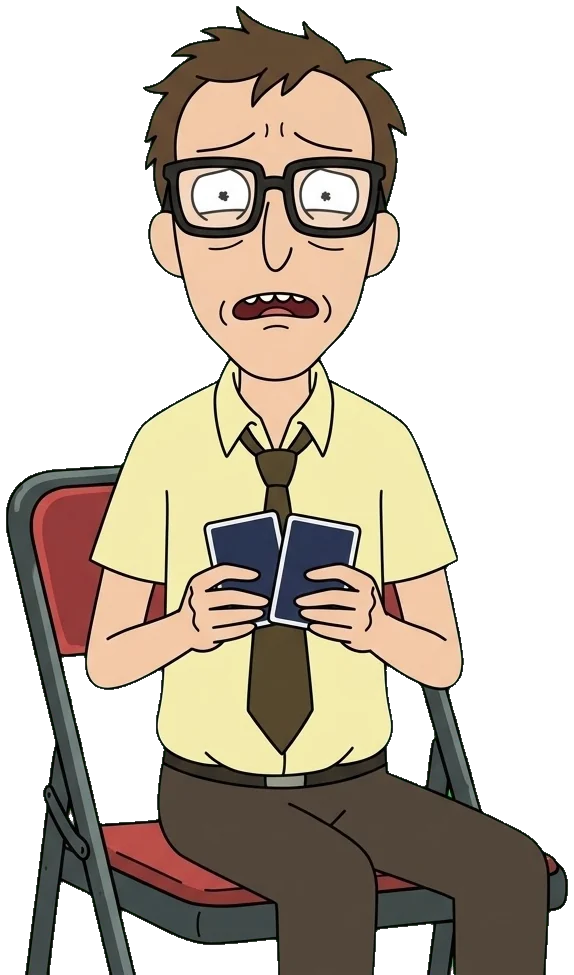
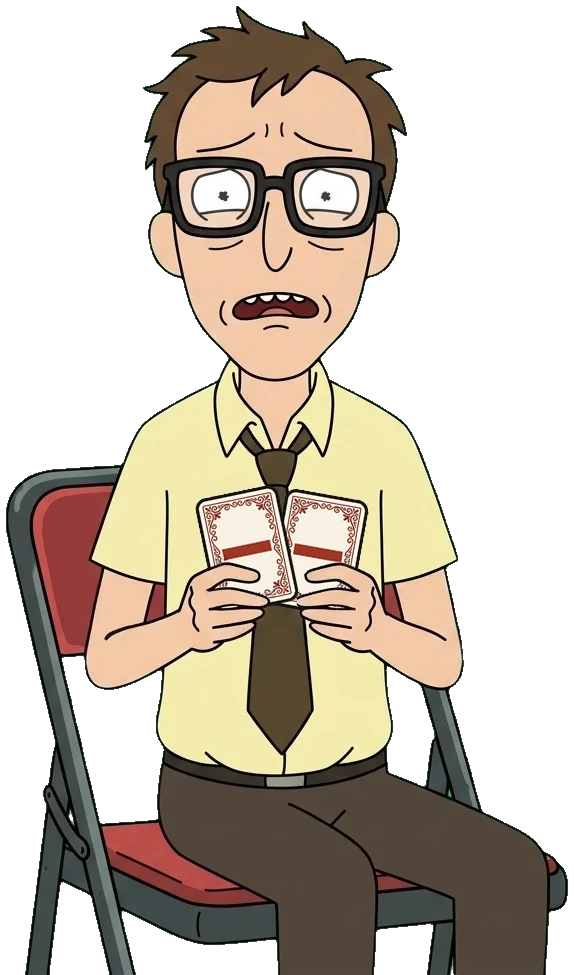
Cartas nuevas en la mano de cinco rivales; Tío Glub rehecho sin motitas
- Aprobados con el reverso de la baraja, del mismo tamaño en la mesa y con sus franjas en
  personajes.json: El Compadre Zorg (v2, llamada 2), El Profe (llamada 1), La Chispa
  (llamada 2) y Don Tentáculos (llamada 2: los tentáculos pasan por encima de la parte de
  abajo de las cartas, como en la base). WebP y registro con optimizar-arte.py; los
  tamaños, la cintura y la cara no cambian.
- Tío Glub, rehecho con la combinada nueva y la misma respuesta pagada (sin las motitas
  junto al pulgar): recomponer-cartas --respaldo parte de la base de antes de aprobar, y
  basta con que las cartas queden donde estaban en el dibujo que se mandó (la combinada ya
  no usa el relleno ni los dedos viejos del dibujo).
- La Güera: su dibujo rellena el hueco entre las manos con su piel (relleno = "piel" en su
  ficha) en vez del gris de la silla; cartas --llamadas 1 para su última llamada.
- Capturas del juego con los seis: la etiqueta sale en las franjas de los cinco, derecha en
  todos los asientos y apagada con el personaje (arte/revision/cartas/seis-*).

diff --git a/scripts/generar-personaje.py b/scripts/generar-personaje.py
@@ -1015,12 +1015,15 @@ def _orilla_suave(girada, tam, n):
     return Image.fromarray(np.dstack([rgb, np.clip(0.5 - adentro, 0, 1) * 255]).round().astype(np.uint8), "RGBA")
 
 
-def _rellenar(a, mascara, vueltas=12):
+def _rellenar(a, mascara, vueltas=12, piel=None):
     """Tapa la máscara con el color de alrededor: el del píxel más cercano del cuerpo (ni tinta ni sombra oscura, ni
-    restos de carta), suavizado por difusión. Es un borrador: Gemini redibuja esa parte."""
+    restos de carta), suavizado por difusión. Es un borrador: Gemini redibuja esa parte. Con `piel` (un color), solo
+    de lo que se parece a ella: así no entra lo de junto que no es cuerpo (el tubo gris de la silla de la turista)."""
     lum, sat = a @ LUMA, a.max(axis=2) - a.min(axis=2)
     cerca = ndi.binary_dilation(mascara, iterations=12) & ~ndi.binary_dilation(mascara, iterations=2)
     fuente = cerca & (lum > 110) & ~_azul(a) & ~((lum > 160) & (sat < 50) & ~(a[..., 2] > a[..., 0] + 40))
+    if piel is not None:
+        fuente &= np.linalg.norm(a - np.asarray(piel, np.float32), axis=2) < 60
     if not fuente.any():
         fuente = ~mascara & (lum > 90)
     _, (iy, ix) = ndi.distance_transform_edt(~fuente, return_indices=True)
@@ -1165,7 +1168,8 @@ def entrada_dibujada(base, ficha, info, ancla="arriba", mover=None):
         mover = min([0] + [s * k for k in range(1, 31) for s in (-1, 1)], key=calif)
     nuevas, franjas = geometria_nuevas(viejas, info["objetivo"], ancla, mover)
     a = np.asarray(base).astype(np.float32)
-    img = Image.fromarray(np.clip(_rellenar(a, relleno), 0, 255).astype(np.uint8)).convert("RGBA")
+    piel = np.median(a[dedos], axis=0) if ficha.get("relleno") == "piel" else None   # la de sus dedos
+    img = Image.fromarray(np.clip(_rellenar(a, relleno, piel=piel), 0, 255).astype(np.uint8)).convert("RGBA")
     capa = Image.new("RGBA", base.size, (0, 0, 0, 0))   # las cartas solas, con orillas suaves: las del resultado
     formas = []
     for n in reversed(nuevas):   # la de atrás primero, la de enfrente encima
@@ -1417,17 +1421,22 @@ def png64(img):
     return base64.b64encode(buf.getvalue()).decode("ascii")
 
 
-def preparar_cartas(pid, ficha):
+def preparar_cartas(pid, ficha, respaldo=None):
     """Lo que necesitan el plan y la generación de cartas de un personaje: su base, el color de su fondo, sus medidas
-    del juego, el plan (tamaño y zona) y su parpadeo aprobado (o None)."""
-    base_path = aprobado(pid, "frente", "espera")
+    del juego, el plan (tamaño y zona) y su parpadeo aprobado (o None). Con `respaldo` (la fecha y hora de
+    arte/respaldos/), la base y el parpadeo de antes de aprobar: para rehacer uno que ya tiene las cartas nuevas."""
+    base_path, parp_path = (aprobado(pid, "frente", c) for c in ("espera", "parpadeo"))
+    if respaldo:
+        base_path, parp_path = (os.path.join(ARTE, "respaldos", f"{pid}-frente-{c}-{respaldo}.png")
+                                for c in ("espera", "parpadeo"))
+        if not os.path.exists(base_path):
+            sys.exit(f"No existe {rel(base_path)}.")
     base = Image.open(base_path).convert("RGB")
     K, tipo, _ = OPT.fondo_de(np.asarray(base).astype(np.float32), os.path.basename(base_path))
     if tipo != ficha["fondo"]:
         sys.exit(f"La ficha de {pid} dice fondo {ficha['fondo']}, pero su base tiene fondo {tipo}.")
     med = medidas(pid, "frente", base)
     info = plan_cartas(pid, base, ficha, med)
-    parp_path = aprobado(pid, "frente", "parpadeo")
     parpadeo = Image.open(parp_path).convert("RGB") if os.path.exists(parp_path) else None
     revisar_ojos(pid, base, parpadeo, info["zona"])
     return base, K, med, info, parpadeo
@@ -1498,7 +1507,10 @@ def cmd_cartas(args):
               + ("bien" if not f_dib else "NO: " + "; ".join(f_dib.values()))
               + f"  (franjas visibles {v_dib['franjas']}, dedos {v_dib['dedos']:.0%}, ancho {v_dib['ancho']})")
     total = sum(f[-1] for f in filas)
-    print(f"Costo estimado: ~${total:.2f} USD (hasta ${total * MAX_LLAMADAS:.2f} si todo se reintenta), "
+    maximo = args.llamadas or MAX_LLAMADAS
+    if not 1 <= maximo <= MAX_LLAMADAS:
+        sys.exit(f"--llamadas va de 1 a {MAX_LLAMADAS}.")
+    print(f"Costo estimado: ~${total:.2f} USD (hasta ${total * maximo:.2f} si todo se reintenta), "
           f"con {cfg['modelo']} a {cfg['image_size']}")
     if args.simular or not filas:
         return
@@ -1510,14 +1522,14 @@ def cmd_cartas(args):
     if not args.si and input("¿Generar? [s/N] ").strip().lower() not in ("s", "si", "sí"):
         print("Cancelado.")
         return
-    generar_cartas(cliente(), cfg, P, ficha, pid, base, K, med, info, parpadeo, entrada, datos)
+    generar_cartas(cliente(), cfg, P, ficha, pid, base, K, med, info, parpadeo, entrada, datos, maximo)
     print(f"Gastado en total según los registros de arte/generadas/: ${gastado_en_total():.4f} USD")
 
 
-def generar_cartas(client, cfg, P, ficha, pid, base, K, med, info, parpadeo, entrada, datos):
-    """La espera con las cartas nuevas: Gemini recibe el dibujo y redibuja las manos (como mucho MAX_LLAMADAS
-    peticiones). De su respuesta solo se toma la zona y, dentro de ella, solo lo que cambió contra el dibujo: donde no
-    tocó las cartas, siguen siendo las de código. Luego el parpadeo, con los ojos cerrados de antes, sin gastar."""
+def generar_cartas(client, cfg, P, ficha, pid, base, K, med, info, parpadeo, entrada, datos, maximo=MAX_LLAMADAS):
+    """La espera con las cartas nuevas: Gemini recibe el dibujo y redibuja las manos (como mucho `maximo`
+    peticiones). De su respuesta solo se toma la zona y, dentro de ella, lo que cambió; encima, las cartas de código
+    salvo donde Gemini puso un dedo (componer_cartas). Luego el parpadeo, con los ojos cerrados de antes, sin gastar."""
     nombre = f"{pid}-frente-espera-cartas"
     os.makedirs(carpeta(pid), exist_ok=True)   # antes de pagar: lo crudo se guarda en cuanto llega
     n = siguiente_version(pid, nombre)
@@ -1531,9 +1543,9 @@ def generar_cartas(client, cfg, P, ficha, pid, base, K, med, info, parpadeo, ent
     entrada64 = png64(lienzo)
     zona, crudos, gastado, correcciones, cand, cache = info["zona"], [("dibujo enviado", entrada)], 0, [], None, {}
     print(f"{os.path.basename(prefijo)}: zona {zona}, cartas de {info['objetivo']:.0f} px dibujadas por código", flush=True)
-    for intento in range(1, MAX_LLAMADAS + 1):
+    for intento in range(1, maximo + 1):
         prompt = prompt_cartas(P, ficha, correcciones)
-        print(f"  llamada {intento} de {MAX_LLAMADAS}...", flush=True)
+        print(f"  llamada {intento} de {maximo}...", flush=True)
         t0, r, error, gen, crudo = time.time(), None, None, None, None
         try:
             r = pedir(client, cfg, prompt, entrada64)
@@ -1581,7 +1593,7 @@ def generar_cartas(client, cfg, P, ficha, pid, base, K, med, info, parpadeo, ent
     if fallas:   # se acabaron las llamadas
         if cand is not None:
             guardar_cartas(pid, prefijo, n, base, crudos, cand, info, med, parpadeo, falla=True)
-        print(f"  {os.path.basename(prefijo)}: no pasó las revisiones en {MAX_LLAMADAS} llamadas. "
+        print(f"  {os.path.basename(prefijo)}: no pasó las revisiones en {maximo} llamada(s). "
               + (f"Lo último quedó en {rel(prefijo)}-FALLA.png (y su -comparacion, -detalle y GIF). " if cand is not None else "")
               + f"Costo: ${gastado:.4f} USD.")
         return
@@ -1612,17 +1624,28 @@ def guardar_cartas(pid, prefijo, n, base, crudos, cand, info, med, parpadeo, fal
 def cmd_recomponer_cartas(args):
     """Vuelve a armar el cuadro de una versión con las respuestas de Gemini ya pagadas (sus -crudoN.png), sin llamar a
     la API: la combinada y las revisiones de hoy. Si una pasa, deja esa versión como si hubiera salido así (para
-    aprobar-cartas); si no, rehace sus -FALLA."""
+    aprobar-cartas); si no, rehace sus -FALLA. Con --respaldo, parte de la base de antes de aprobar."""
     pid = args.personaje
     ficha = cargar_ficha(pid)
-    base, K, med, info, parpadeo = preparar_cartas(pid, ficha)
+    base, K, med, info, parpadeo = preparar_cartas(pid, ficha, args.respaldo)
     entrada, datos = entrada_dibujada(base, ficha, info)
     info["zona"], info["zona_medida"] = datos["zona"], datos["zona_medida"]
     prefijo = os.path.join(carpeta(pid), con_version(f"{pid}-frente-espera-cartas", args.version))
     if not os.path.exists(f"{prefijo}-entrada.png"):
         sys.exit(f"No encuentro {rel(prefijo)}-entrada.png: esa versión no es del método de cartas dibujadas.")
-    if (np.asarray(Image.open(f"{prefijo}-entrada.png").convert("RGB")) != np.asarray(entrada)).any():
-        sys.exit("El dibujo de hoy no es el que se mandó en esa versión: no se puede recomponer con él.")
+    enviado = np.asarray(Image.open(f"{prefijo}-entrada.png").convert("RGB"))
+    distintos = int((enviado != np.asarray(entrada)).any(axis=2).sum())
+    if distintos:
+        # la combinada no usa el dibujo (solo la base, la respuesta y las cartas solas): basta con que las cartas
+        # queden donde estaban en el que se mandó
+        antes = json.load(open(f"{prefijo}-franjas.json"))
+        iguales = antes["mover"] == datos["mover"] and len(antes["franjas_px"]) == len(datos["franjas"]) and all(
+            np.hypot(*np.subtract(a["c"], b["c"])) <= 0.5 and abs(a["angulo"] - b["angulo"]) <= 0.5
+            for a, b in zip(antes["franjas_px"], datos["franjas"]))
+        if not iguales:
+            sys.exit("Las cartas del dibujo de hoy no quedan donde estaban en el que se mandó: no se puede recomponer.")
+        print(f"  (el dibujo de hoy difiere del que se mandó en {distintos} px del relleno y los dedos viejos, que la "
+              f"combinada no usa; las cartas quedan en el mismo lugar)")
     lienzo, dentro = a_cuadrado(entrada, K)
     crudos, pasa, ultima = [("dibujo enviado", entrada)], None, None
     patron = re.compile(re.escape(os.path.basename(prefijo)) + r"-crudo(\d+)\.png")
@@ -1721,10 +1744,14 @@ def main():
     c.add_argument("--si", action="store_true", help="no pedir confirmación")
     c.add_argument("--modelo", help="otro modelo en vez del de prompts-personaje.toml")
     c.add_argument("--tamano", choices=["1K", "2K", "4K"], help="otro tamaño en vez del de prompts-personaje.toml")
+    c.add_argument("--llamadas", type=int,
+                   help=f"tope de llamadas de esta vez (de 1 a {MAX_LLAMADAS}; sin esto, {MAX_LLAMADAS})")
     rc = sub.add_parser("recomponer-cartas", help="rearma una versión con sus respuestas ya pagadas, sin llamar a la API")
     rc.add_argument("personaje")
     rc.add_argument("--version", type=int, required=True, help="la versión de <id>-frente-espera-cartas, por ejemplo 2")
     rc.add_argument("--llamada", type=int, help="usar la respuesta de esta llamada (sin esto, la primera que pase)")
+    rc.add_argument("--respaldo", help="fecha-hora de arte/respaldos/ (por ejemplo 20261019-182031): partir de la base "
+                    "de antes de aprobar")
     ac = sub.add_parser("aprobar-cartas", help="pasa la espera con el reverso nuevo y su parpadeo a arte/personajes/")
     ac.add_argument("personaje")
     ac.add_argument("--version", type=int, help="otra versión en vez de la más reciente, por ejemplo 2")

diff --git a/CLAUDE.md b/CLAUDE.md
@@ -270,7 +270,7 @@ Los de los lados pueden tapar un poco los hombros de los del fondo, nunca la car
   - **Figuras** (rey, reina y jota): personajes originales en caricatura para adultos, al estilo de las figuras de las barajas clásicas: pose rígida de frente, un objeto en diagonal y la otra mano al pecho, ropa cubierta de patrones, párpados pesados y cara de "ya me quiero ir". Gemini dibujó la mitad de arriba (`scripts/generar-baraja.py`); el código pone la de abajo (la misma girada 180°), el marco de doble línea con las volutas del reverso, la franja del centro, el palo junto a la cabeza y los índices. La túnica va del color de su palo: corazones rojo ladrillo, diamantes marino, tréboles oliva y picas gris pizarra.
   - **Reverso**: el marco de volutas rojo ladrillo sobre blanco (de Gemini, con el centro limpiado por código) y, al centro, la etiqueta del logo: un rectángulo rojo con "Poker for the Players" en letras blancas, sin contorno, dibujada por código. La misma función la pone en los ases: el texto, los colores y el tamaño están en `ETIQUETA` de `cards.js`, para cambiar los dos a la vez cuando se rediseñe el logo.
   - El arte se precarga con el resto; si alguna imagen no carga, esa carta se dibuja solo con código (el reverso con un marco rojo sencillo, las figuras con su marco, su letra y su palo) y el juego sigue. En la vista 2D las cartas son HTML con los mismos palos, y boca abajo llevan un reverso en CSS (papel, marco rojo y la franja de la etiqueta).
-  - Las cartas que tienen los rivales en la mano llevan el mismo reverso y miden lo mismo en la mesa para todos (0.07 de ancho; las de los asientos del fondo se ven más chicas por la distancia). `scripts/generar-personaje.py cartas` las dibuja por código sobre la espera (el reverso aprobado y la franja de la etiqueta vacía, al ancho que les toca con su escala) y Gemini solo redibuja las manos alrededor, con los dedos encima de las cartas; las letras de la franja las pone el juego con la misma `etiqueta()` (`rivals.js`, con las `franjas` que `aprobar-cartas` anota en `personajes.json`), derechas aunque el personaje vaya en espejo. Así un logo nuevo se ve en todas partes sin rehacer imágenes. Por ahora solo Tío Glub; los demás siguen con el reverso azul: ver "Pendientes".
+  - Las cartas que tienen los rivales en la mano llevan el mismo reverso y miden lo mismo en la mesa para todos (0.07 de ancho; las de los asientos del fondo se ven más chicas por la distancia). `scripts/generar-personaje.py cartas` las dibuja por código sobre la espera (el reverso aprobado y la franja de la etiqueta vacía, al ancho que les toca con su escala) y Gemini solo redibuja las manos alrededor, con los dedos encima de las cartas; las letras de la franja las pone el juego con la misma `etiqueta()` (`rivals.js`, con las `franjas` que `aprobar-cartas` anota en `personajes.json`), derechas aunque el personaje vaya en espejo. Así un logo nuevo se ve en todas partes sin rehacer imágenes. Ya las tienen todos menos La Güera (la turista), que sigue con el reverso azul: ver "Pendientes".
 - **Rivales**: ilustraciones recortadas de cuerpo completo, sentados en su propia silla y con las cartas al pecho (ver "Archivos de arte" y `docs/ESPEC-PERSONAJES.md`); la mesa los recorta en la cintura, así que las manos y las cartas se siguen viendo. Mismo estilo para todos: formas simples, ojos grandes con párpados caídos, expresiones secas, aburridas o sospechosas, mezcla de criaturas alienígenas y equipo improvisado. Cada uno con una silueta distinta y reconocible. Los humanos en la mesa usan uno de estos personajes como avatar, con su apodo encima.
 - **Animación de los rivales** (cambio de pose, como en una serie animada):
   - **espera** por omisión, con **parpadeo** cada 3 a 6 s al azar (150 ms; solo en espera);
@@ -402,7 +402,7 @@ npm start       # producción: sirve dist/ (corre antes npm run build)
 
 ## Pendientes
 
-- **Cartas en la mano de los rivales**: Tío Glub ya tiene las nuevas; faltan los otros cinco con el mismo método (`generar-personaje.py cartas <id>`, que no gasta si el dibujo no pasa sus propias revisiones). Antes hay que ajustar su dibujo: en el alien y el nerd los dedos caen sobre las franjas, en el pulpo la franja de atrás queda tapada en parte, en la robot y la turista los dedos apenas tocan la carta, y el medidor no encuentra las cartas chicas de la turista. Al terminar, cambiar en `prompts-personaje.toml` el "navy blue" de apuesta, retirarse y gana.
+- **Cartas en la mano de La Güera (la turista)**: los otros cinco ya tienen las nuevas. Su primera respuesta dejó una mancha gris entre las manos (el relleno tomaba el gris de la silla); su dibujo ya se rellena con su piel (`relleno = "piel"` en su ficha) y le queda una llamada: `generar-personaje.py cartas turista --llamadas 1`, con el "genera" del dueño. Al terminar, cambiar en `prompts-personaje.toml` el "navy blue" de apuesta, retirarse y gana.
 
 - **Celular con la mesa nueva**: en vertical sigue la mesa de código, pero con la orilla nueva (más honda que ancha, calcada de la ilustración), así que su cámara se bajó a 50° (`CAMERAS.portrait`) para que los rivales no se vieran diminutos. Falta decidir si el celular usa una segunda ilustración (vista más desde arriba) o la misma adaptada, y revisar sus asientos y etiquetas.
 - **Memoria en iPhone con todos los cuadros**: el máximo de frente subió a 1000 px de alto (la mitad de abajo queda bajo la mesa). Cuando cada personaje tenga todos sus cuadros de frente y de lado, revisar cuánta memoria usa la mesa en un iPhone: hoy se precargan y decodifican todos los cuadros de todos los personajes en uso (6 personajes × hasta 6 cuadros × 2 ángulos, más los reducidos al tamaño en que se ven). Si pesa, cargar solo los personajes que están en la mesa o bajar el máximo.
